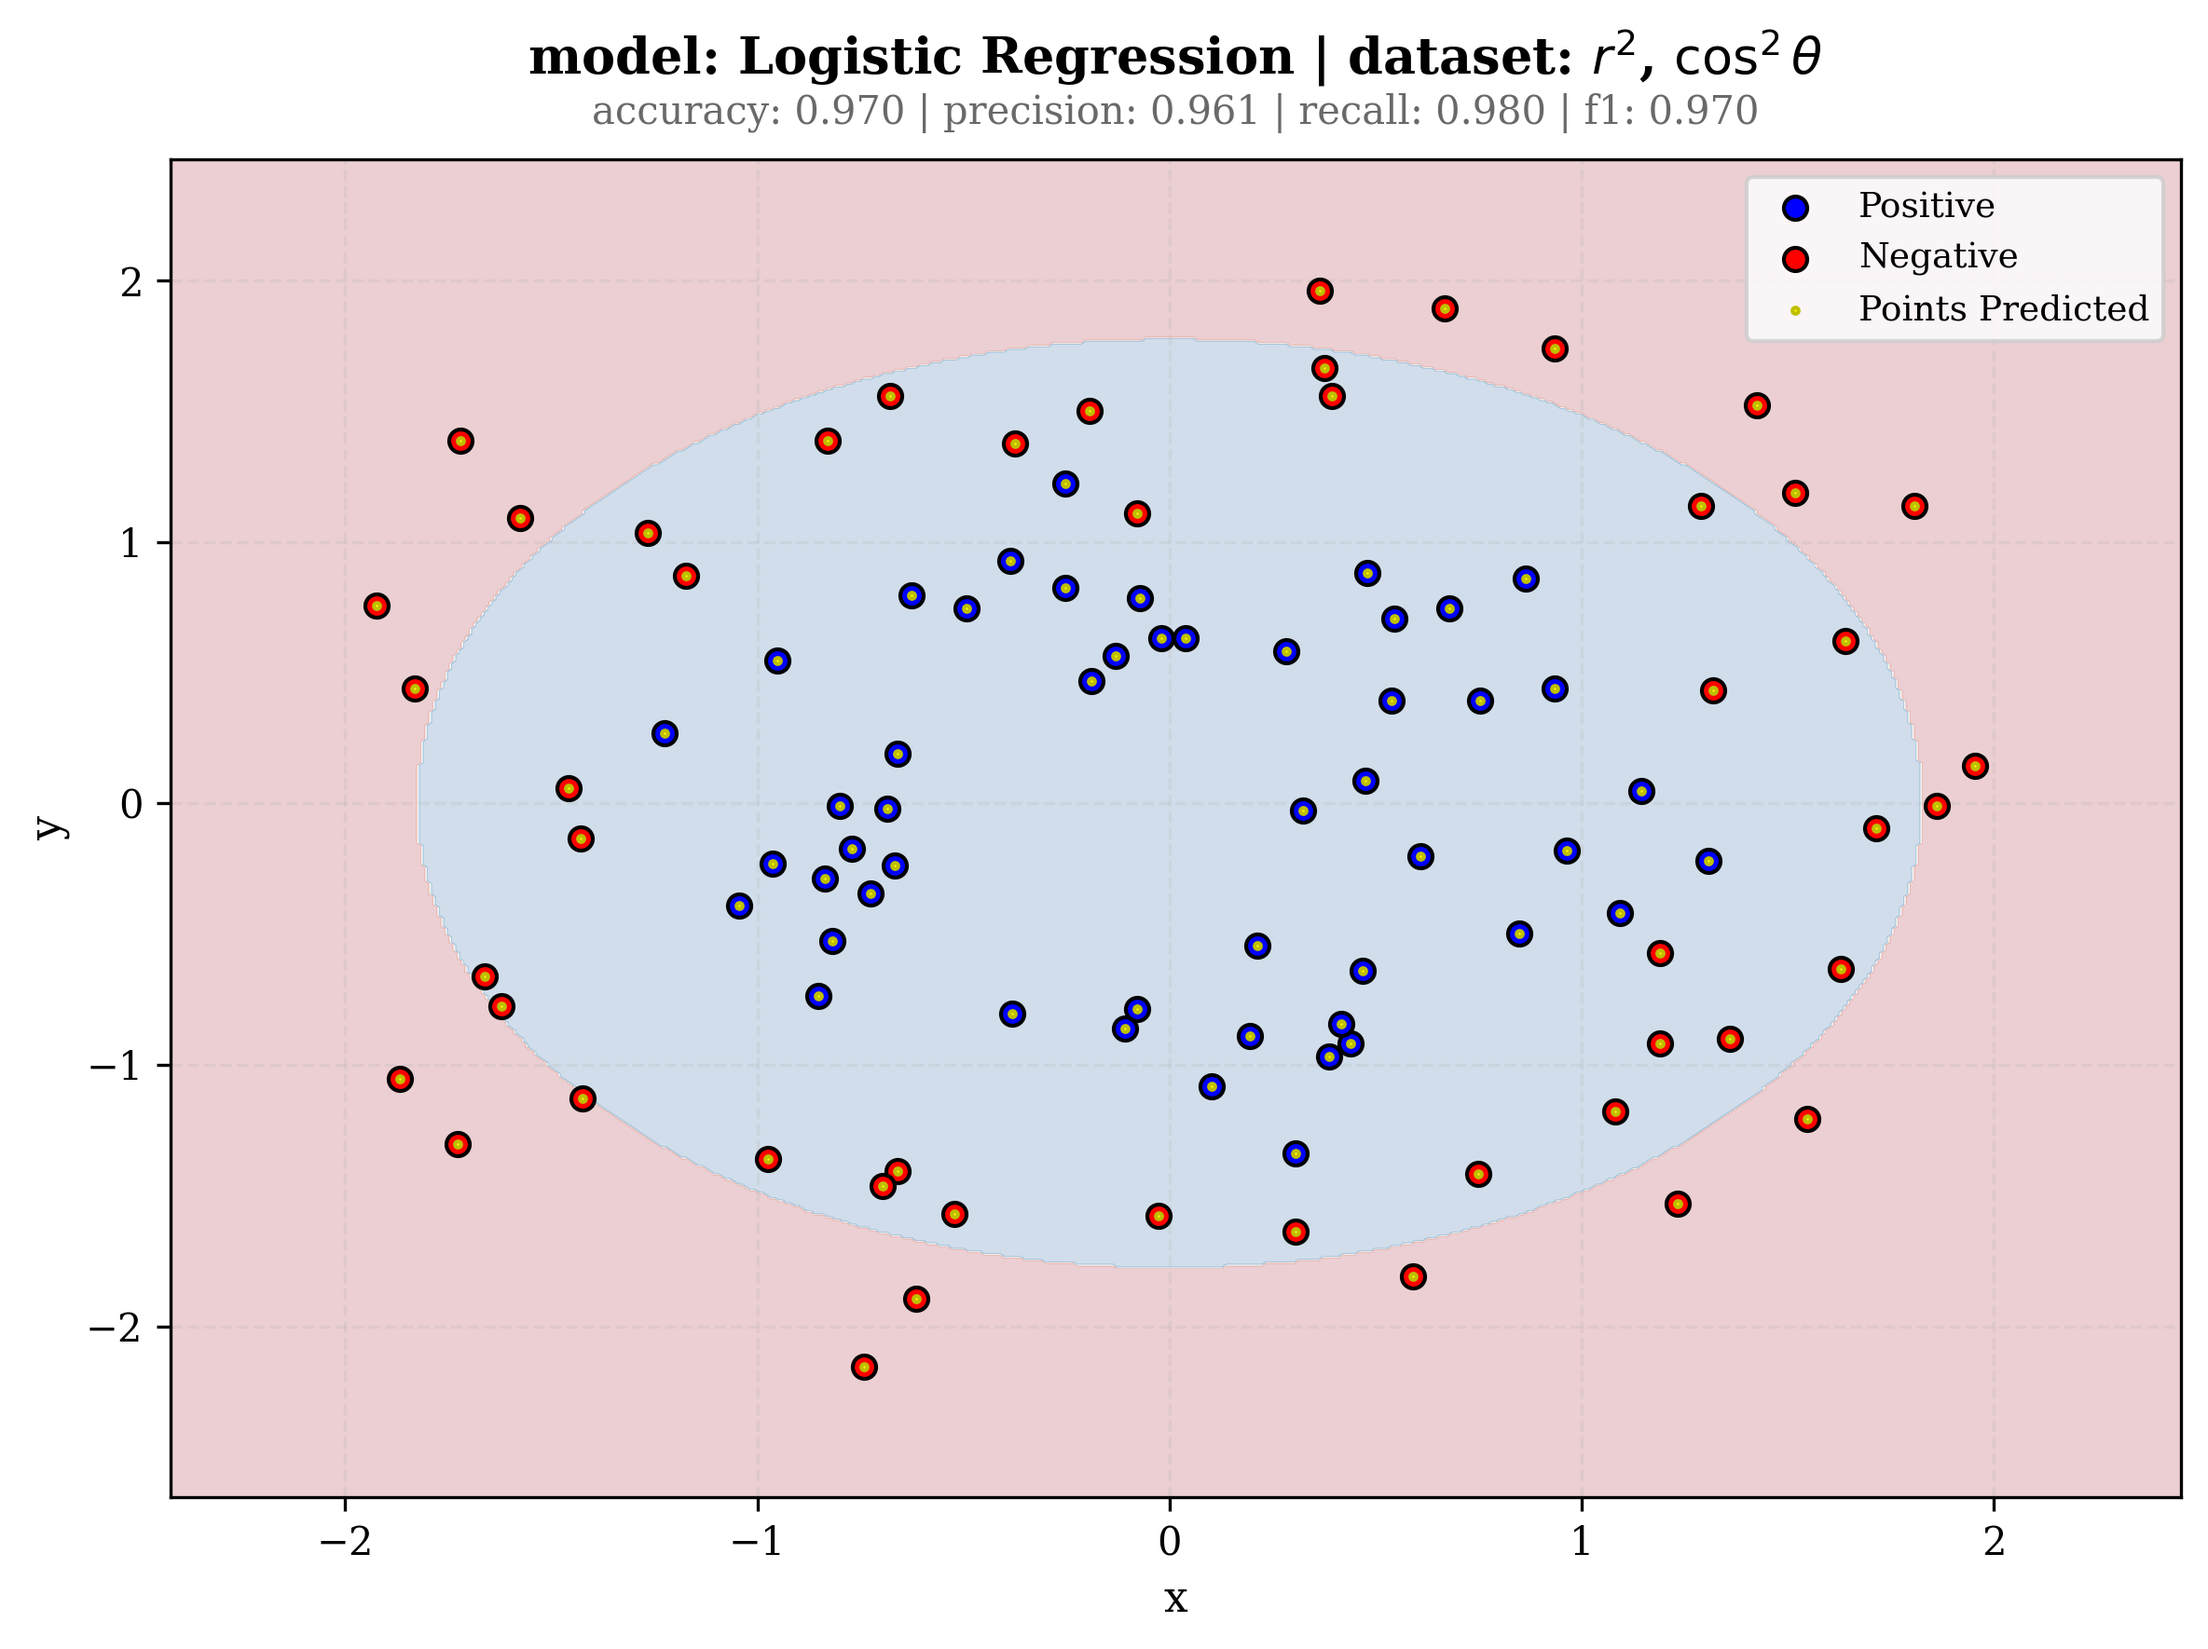
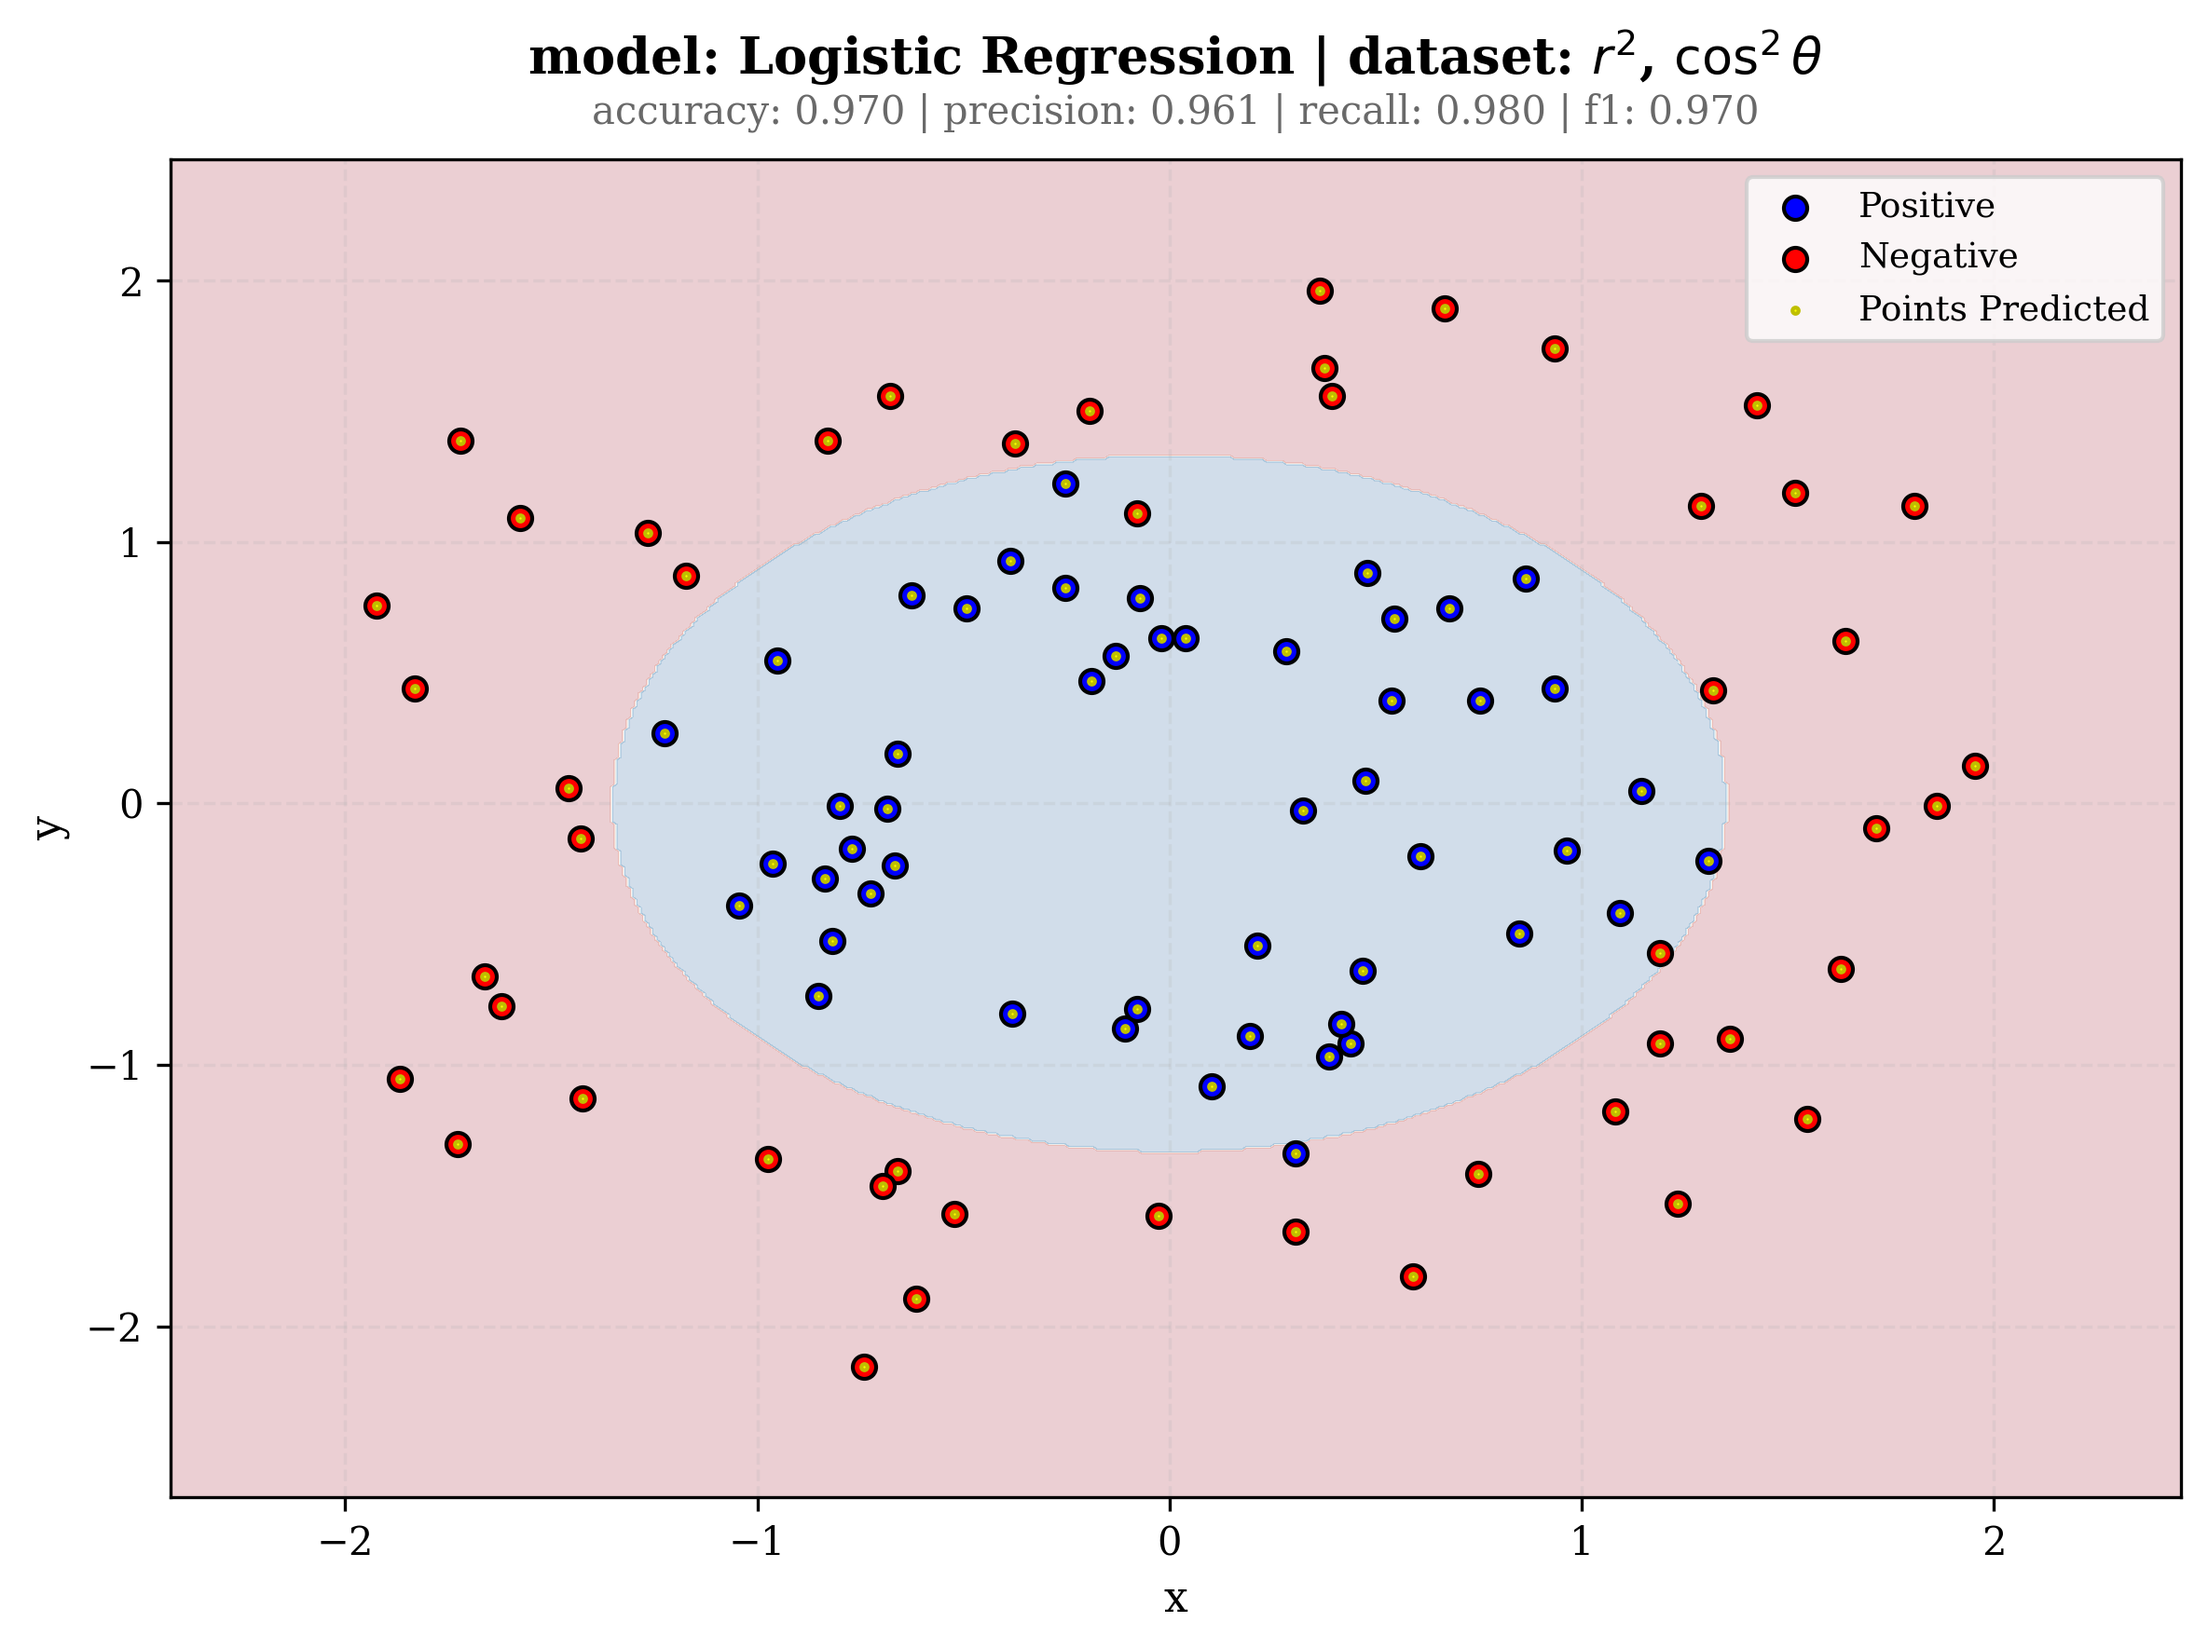
Update feature engineering notebook with corrected plot names and add decision boundary plots. Updated README with reference to polar logistic regression and svm plot side-by-side.

Changed region(s): [[0.1874, 0.1864, 0.8746, 0.7768]]

diff --git a/README.md b/README.md
@@ -58,6 +58,8 @@ A heavy linear dependence on radial distance is made explicit by this visual.
 
 Cross-validation results analyzed using the Friedman test did not reveal statistically significant differences in F1-score across models under the evaluated conditions ($p > 0.05$). This suggests that feature-engineered linear models can achieve performance comparable to higher-capacity kernel methods when the representation aligns with the underlying geometric structure of the data.
 
+![Raw data](results/figures/polar_logi_svm.png)
+
 Feature-engineered logistic regression achieves performance comparable to kernel-based methods when:
 
 - The transformation aligns with the underlying geometry (mutual information score is increased by these features)
